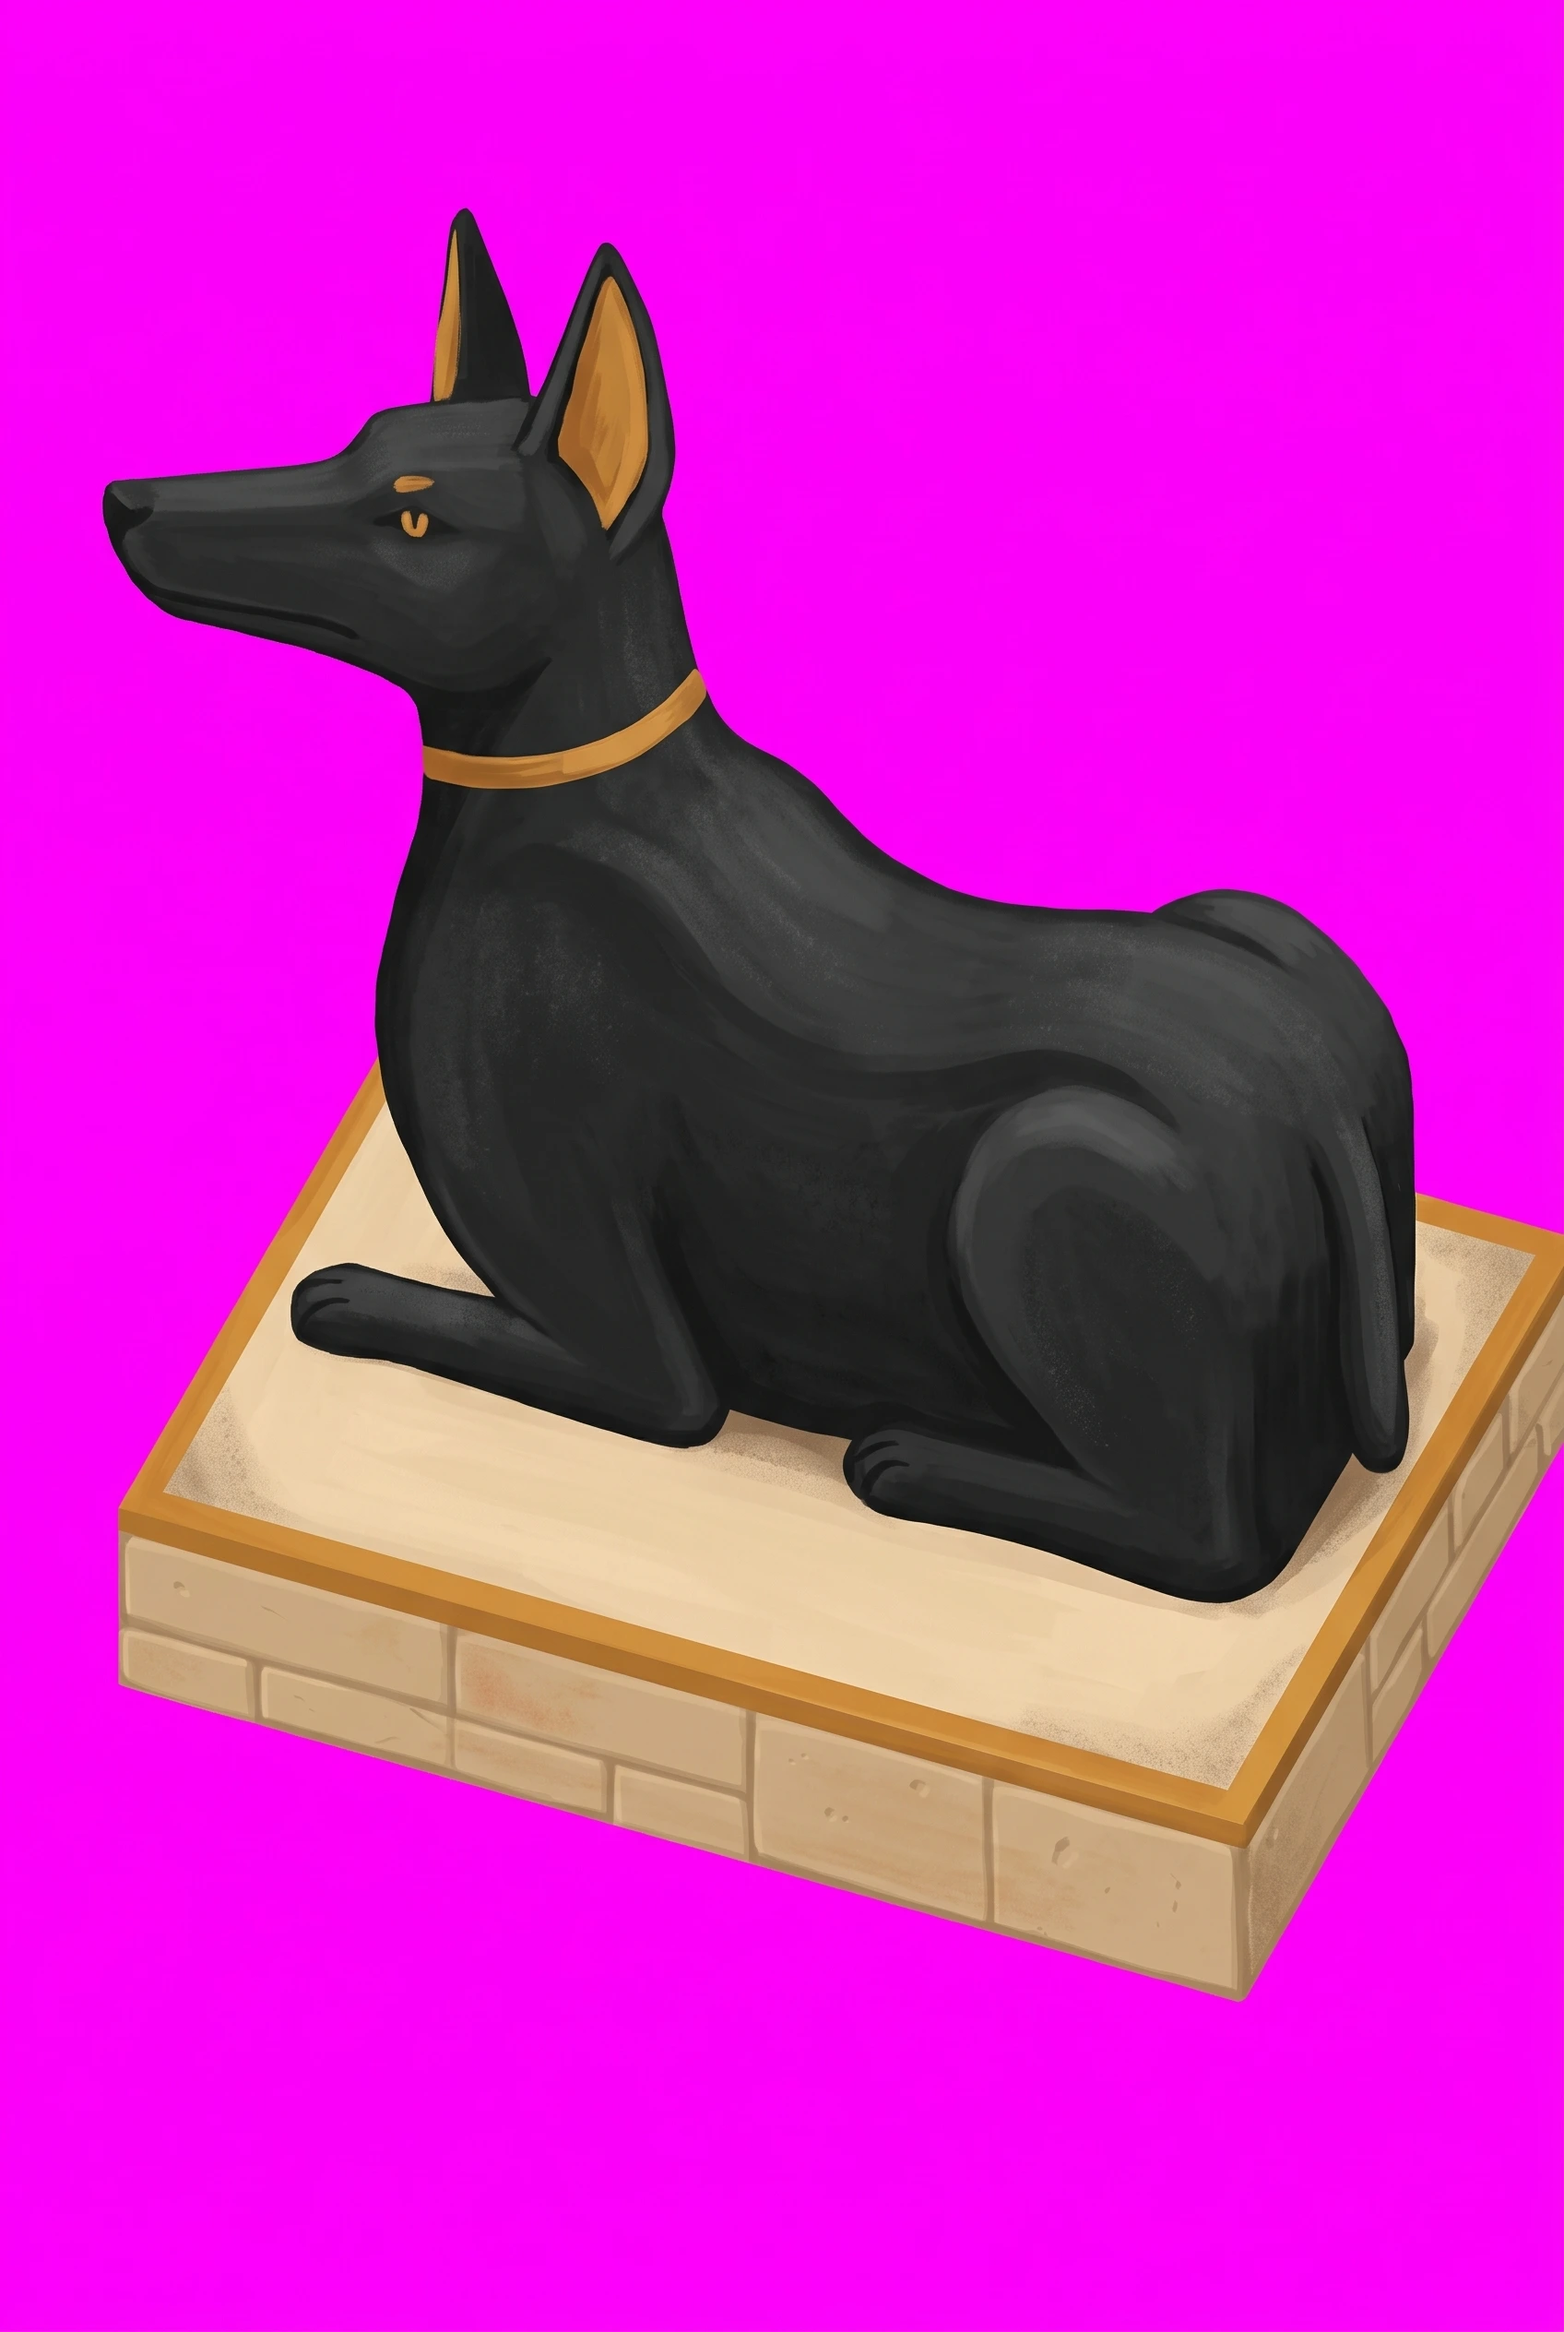
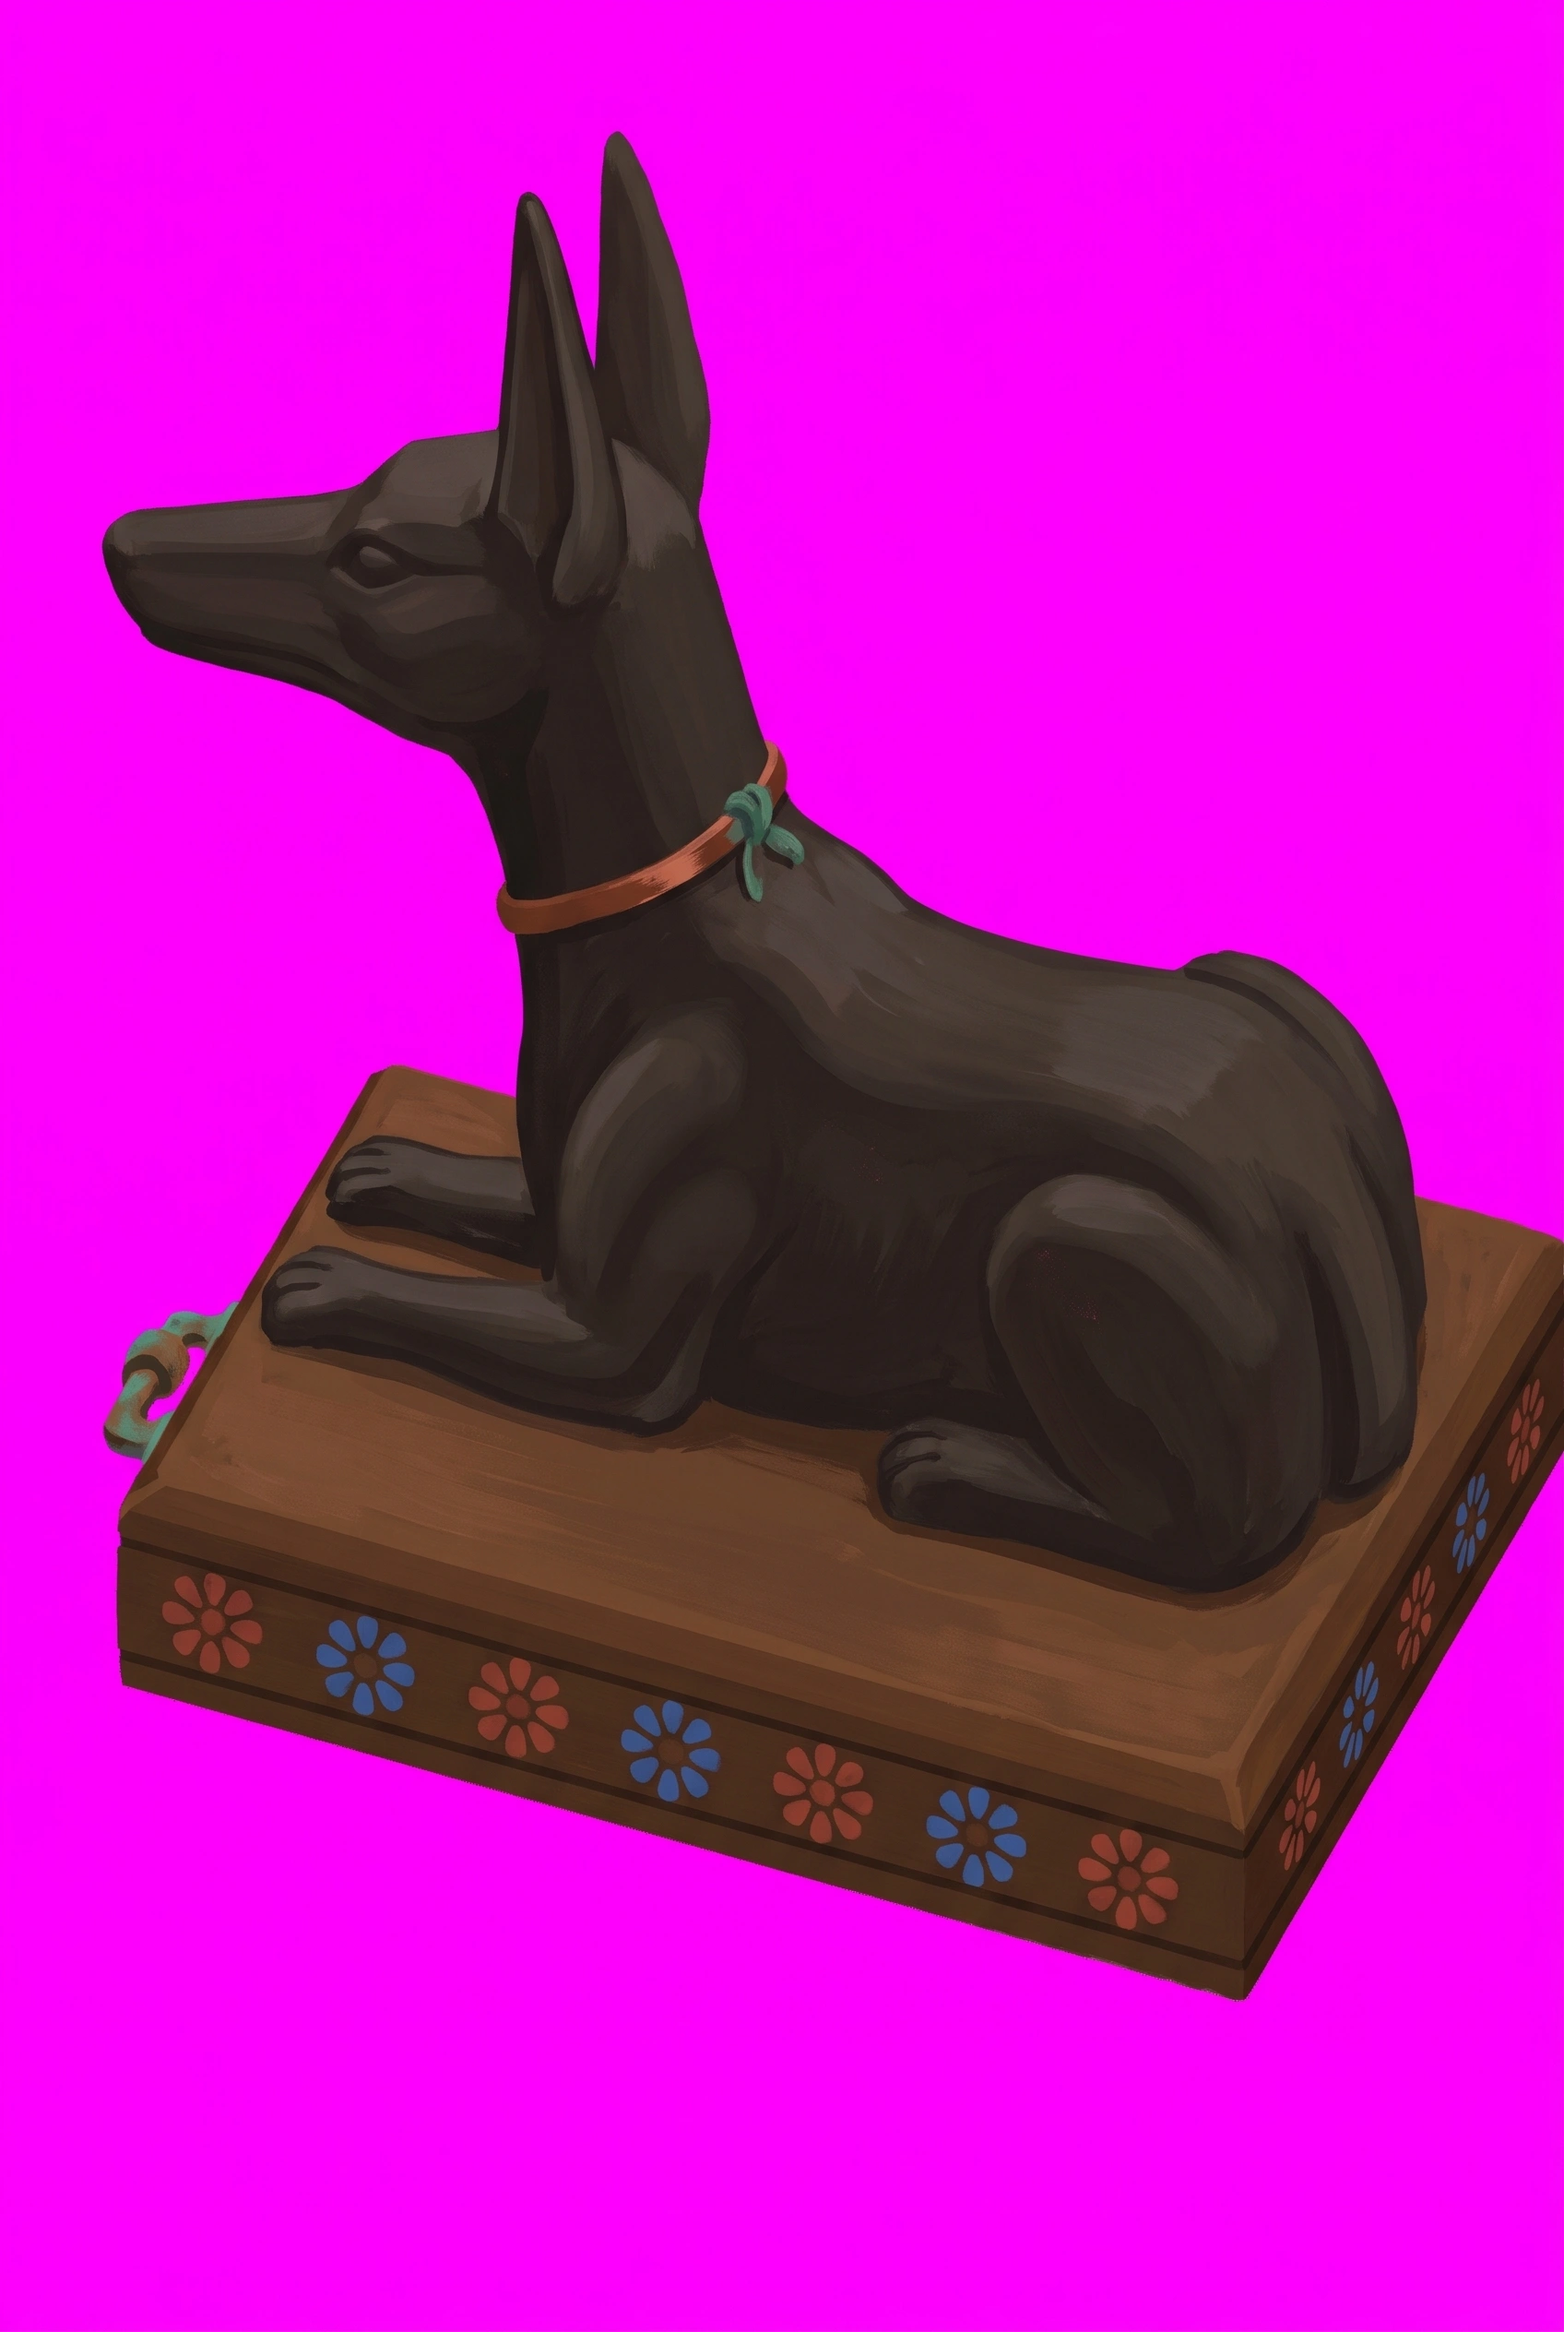
art: junior Anubis couchant on a cedar chest
Claude-Session: https://claude.ai/code/session_01F6g2diRzQCzQwEf9zsEEGH

Changed region(s): [[0.0625, 0.0625, 1.0, 0.875], [0.4062, 0.5, 0.4375, 0.5625]]

diff --git a/docs/instructions/repaint-queue.md b/docs/instructions/repaint-queue.md
@@ -483,7 +483,7 @@ Even lighting left to right, no hotspot, no vignette.
 
 ---
 
-## Nobleman — eighteen
+## Nobleman — seventeen
 
 The nobleman's existing props, repainted for the rank's new light orange floor. Each is its own thing
 first: cedar is cedar, linen is linen, pottery is pottery, painted in red ochre, Egyptian blue and leaf
@@ -506,52 +506,6 @@ The last nine are the house's own kinds, new with its activities ([themed-rooms.
 § Junior): each has a primitive of its own in `renderProp.py` and a guarded block in `art/rebuild.sh`. The
 banquet table and the bed are two cells across, so their frame is landscape three by two; the harp and the
 potted tree stand a cell taller, so theirs is portrait two by five.
-
-### `junior/statue-anubis` — Anubis couchant, black, on a painted chest
-
-**Re-roll:** the rank's palette moved (2026-11-03, `Topology/Palette moodboard`). Repainted against the new light orange floor, in its own material's colours; copper only as a trim.
-
-**Attach:**
-
-1. `~/tile-previews/statue-anubis-junior-previous.png` — the first roll over the scaffold, repainted over: its pose, head and materials are right, only its carving is too blocky
-2. `~/tile-previews/junior-plain.png` — the material reference
-
-```
-A wall-less product shot of a single object, painted in flat matte gouache, no background, on pure magenta #FF00FF. Portrait, two units wide by three tall, exactly as the reference. Do not re-compose it into a square. Paint over the reference image itself.
-
-The object: ANUBIS as a jackal lying down on a chest. The upper marked part is the ANIMAL; the block
-under it is the CHEST it lies on.
-
-IT IS A CARVED OBJECT, smoothly modelled, the legs never leave the body.
-
-The jackal is painted matte BLACK #2a1f18, #3a2e26 on his top planes: long muzzle, two tall pointed ears,
-a thin copper collar #8a4022 gone verdigris at its knot, the one mark of metal. The chest under him is
-dark cedar #6b4226, painted with a band of Egyptian blue #2a5a9a and red ochre #8a3a2a rosettes.
-
-THE REFERENCE IS A PAINTING of this statue in the right pose and the right materials, but carved too BLOCKY. Keep the pose, the turn of the head, the chest and every outer contour exactly; SOFTEN ONLY the carving of the jackal: round the flat facets into smooth muscle and a sleek, polished body, inside the outline it already has.
-
-EVERYTHING ELSE IS FIXED:
-
-1. THE FRAME. Portrait, two units wide by three tall, exactly as the reference. Do not re-compose it into a square.
-2. THE PERSPECTIVE, THE PROJECTION, THE ANGLE AND THE ROTATION ARE THE REFERENCE'S. Take all four from the reference image exactly and do not reason about them. It is not a photograph and not an isometric view.
-3. HE LIES with his forelegs stretched out in front, head raised, along the chest.
-4. THE PLINTH IS EXACTLY AS THE REFERENCE DRAWS IT — its angle, its rotation, how much of its top shows. Do not swing it round, do not flatten it.
-5. THE PLACEMENT AND THE SIZE. Every part stays where the reference puts it, and the whole object stays as tall and as wide in the frame as it already is. The figure is the marked upper part; the base is the lower part. Do not shrink the figure onto a taller base.
-
-The animal is as big as the reference makes it.
-
-ANYTHING DRAWN OUTSIDE THE REFERENCE'S SHAPE IS CUT OFF. Nothing is added below the plinth — no ground, no shadow, no floor.
-
-No highlights, no gloss, no rim light, no ground plane, no reflections. Matte throughout, evenly lit, crisp and clean. Nobleman's house: orange sandstone, painted plaster, cedar, linen, reed and pottery, each in its OWN colours so it reads at a glance as what it is. Copper is an accent only — a rim, a band, a hasp, gone verdigris green at the edges — never a tint over the whole object.
-```
-
-Then, once the return is in `~/Downloads`:
-
-```sh
-scaffold statue --contents=couchant --spin=-22 --colour=#6b4226 --colour-figure=#5a4e44 --floor=#e2a86f
-yarn import-tile art/masters/props/junior/statue-anubis.webp --tier=junior --name=statue-anubis --slot=prop \
-  --filter=smooth --mask="$OBJ" --seat="$SHADOW"
-```
 
 ### `junior/shrine-thoth` — a false door with Thoth's ibis on its panel
 
